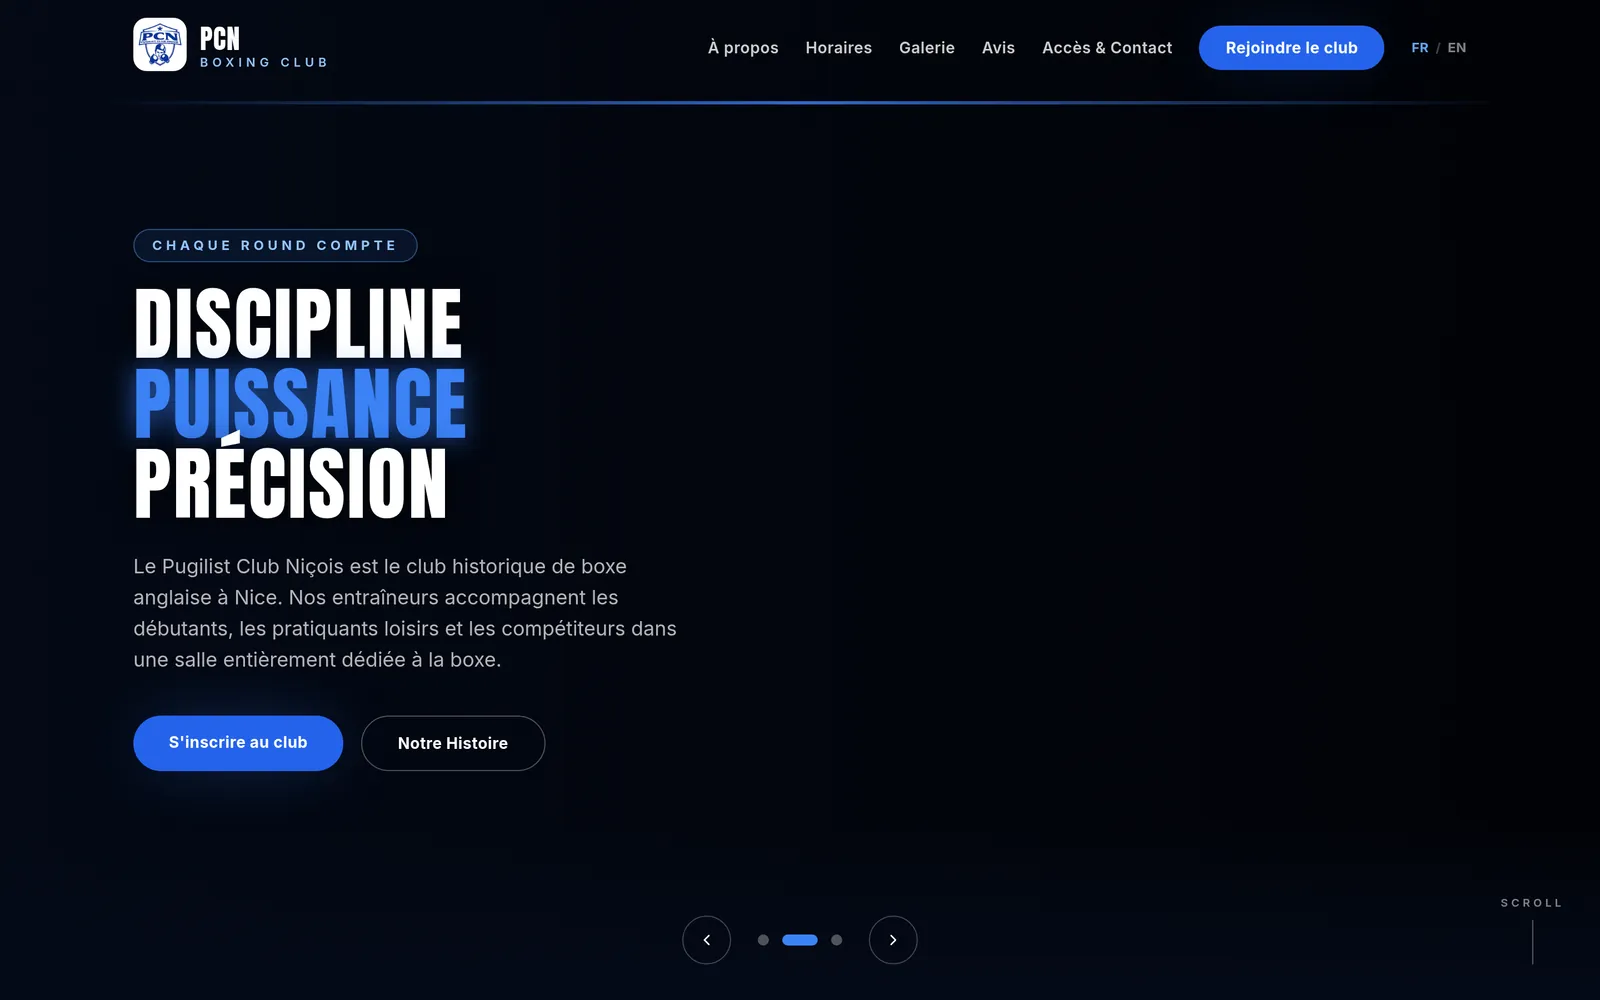
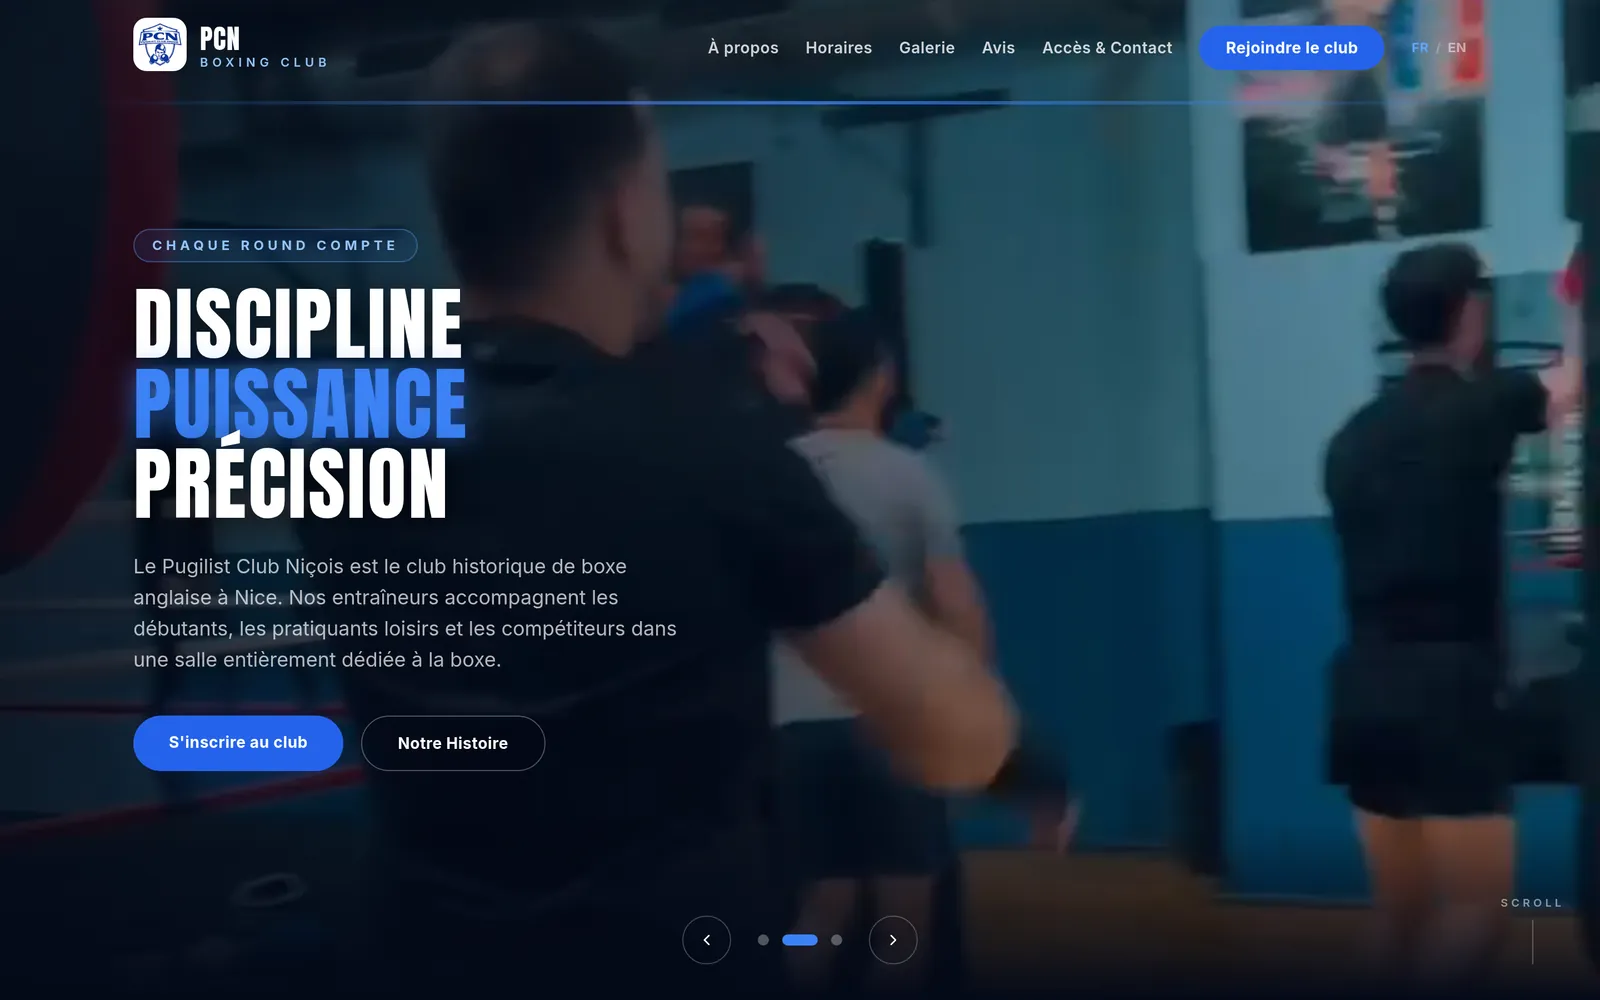
Lead each project with its title on mobile, and point PCN at its new domain
On narrow screens the screenshot came before the project name, so it read as
part of the project above it. Each card now orders title, screenshot, details
on mobile while keeping the alternating two-column layout on desktop - done
with display:contents on the text wrapper so the grid can order all three
blocks without duplicating markup. Separator between projects is now a gold
hairline with more breathing room.

pcnboxe.com now redirects to pugilistclubnicois.fr, so the live link and the
browser-frame URL follow the club's current domain. Re-captured the
screenshots from it: the new shot is far brighter and the gym is actually
legible, where the old one was almost entirely dark.

diff --git a/resources/views/components/fight-card.blade.php b/resources/views/components/fight-card.blade.php
@@ -17,11 +17,99 @@
     $flip = $index % 2 === 1;
 @endphp
 
-<article class="reveal border-t border-white/8 py-14 first:border-t-0 lg:py-20">
-    <div class="grid gap-10 lg:grid-cols-2 lg:items-center lg:gap-14">
+{{-- One project.
 
-        {{-- Screenshots ---------------------------------------------------- --}}
-        <div class="relative {{ $flip ? 'lg:order-2' : '' }}">
+     On mobile the order is title, then screenshot, then details, so a
+     screenshot is never mistaken for part of the project above it. On desktop
+     the title and details share one column beside the screenshot. The wrapper
+     is `display: contents` on mobile so its children can be ordered by the
+     parent grid, and becomes a normal column at lg. --}}
+<article class="reveal border-t border-[var(--color-gold)]/20 pt-12 pb-14 first:border-t-0 first:pt-0 lg:border-white/10 lg:py-20">
+    <div class="grid gap-6 lg:grid-cols-2 lg:items-center lg:gap-14">
+
+        <div class="contents lg:block {{ $flip ? 'lg:order-1' : 'lg:order-2' }}">
+
+            {{-- Title block: first thing read on mobile --}}
+            <header class="order-1">
+                <div class="flex flex-wrap items-center gap-2">
+                    <p class="eyebrow">{{ $billing }}</p>
+                    <span class="text-[var(--color-bone-dim)]/40">/</span>
+                    <p class="eyebrow eyebrow-dim">{{ $project['year'] }}</p>
+                </div>
+
+                <h3 class="display mt-3 text-[clamp(2rem,7vw,3.25rem)]">
+                    {{ $project['title'] }}
+                </h3>
+
+                <p class="mt-2 text-base text-[var(--color-bone)]/80">{{ __($project['subtitle']) }}</p>
+
+                <div class="mt-4 flex flex-wrap gap-2">
+                    <span class="badge {{ $kindBadge[0] }}">{{ $kindBadge[1] }}</span>
+                    @if ($project['status'] === 'live')
+                        <span class="badge badge-live">{{ __('Live') }}</span>
+                    @endif
+                    @if (! empty($project['repo_private']))
+                        <span class="badge badge-learning">{{ __('Private repo') }}</span>
+                    @endif
+                </div>
+
+                @if ($project['client'])
+                    <p class="mt-4 text-sm text-[var(--color-bone-dim)]">
+                        <span class="text-[var(--color-gold)]">{{ __('Client') }}:</span> {{ $project['client'] }}
+                    </p>
+                @endif
+            </header>
+
+            {{-- Details: below the screenshot on mobile --}}
+            <div class="order-3 mt-2 lg:mt-6">
+                <p class="max-w-xl leading-relaxed text-[var(--color-bone-dim)]">
+                    {{ __($project['summary']) }}
+                </p>
+
+                <div class="tape mt-7 grid-cols-3">
+                    @foreach ($project['metrics'] as $metric)
+                        <div class="tape-cell">
+                            <p class="tape-value text-[1.15rem] sm:text-[1.4rem]">{{ $metric['value'] }}</p>
+                            <p class="tape-label">{{ __($metric['label']) }}</p>
+                        </div>
+                    @endforeach
+                </div>
+
+                <div class="mt-6 flex flex-wrap gap-1.5">
+                    @foreach ($project['stack'] as $tech)
+                        <span class="tag">{{ $tech }}</span>
+                    @endforeach
+                </div>
+
+                <div class="mt-7 flex flex-wrap gap-3">
+                    <a href="{{ route('work.show', $project['slug']) }}" class="btn btn-gold">
+                        {{ __('Read the case study') }}
+                    </a>
+
+                    @if ($project['live_url'])
+                        <a href="{{ $project['live_url'] }}" target="_blank" rel="noopener noreferrer" class="btn btn-ghost">
+                            {{ __('Visit site') }}
+                            <x-lucide-arrow-up-right class="h-3.5 w-3.5" />
+                        </a>
+                    @endif
+
+                    @if ($project['github_url'])
+                        <a href="{{ $project['github_url'] }}" target="_blank" rel="noopener noreferrer" class="btn btn-ghost">
+                            {{ __('Code') }}
+                        </a>
+                    @endif
+                </div>
+
+                @if (! empty($project['cold_start']))
+                    <p class="mt-4 text-xs text-[var(--color-bone-dim)]/75">
+                        {{ __('Hosted on a free tier that sleeps - the first request can take a few seconds to wake.') }}
+                    </p>
+                @endif
+            </div>
+        </div>
+
+        {{-- Screenshots --}}
+        <div class="relative order-2 {{ $flip ? 'lg:order-2' : 'lg:order-1' }}">
             <div class="browser">
                 <div class="browser-bar">
                     <span class="browser-dot bg-[#ff5f57]"></span>
@@ -49,82 +137,6 @@
                     class="block h-52 w-full object-cover object-top lg:h-64"
                 >
             </div>
-        </div>
-
-        {{-- Billing -------------------------------------------------------- --}}
-        <div class="{{ $flip ? 'lg:order-1' : '' }}">
-            <div class="flex flex-wrap items-center gap-2">
-                <p class="eyebrow">{{ $billing }}</p>
-                <span class="text-[var(--color-bone-dim)]/40">/</span>
-                <p class="eyebrow eyebrow-dim">{{ $project['year'] }}</p>
-            </div>
-
-            <h3 class="display mt-3 text-[clamp(2rem,5vw,3.25rem)]">
-                {{ $project['title'] }}
-            </h3>
-
-            <p class="mt-2 text-base text-[var(--color-bone)]/80">{{ __($project['subtitle']) }}</p>
-
-            <div class="mt-4 flex flex-wrap gap-2">
-                <span class="badge {{ $kindBadge[0] }}">{{ $kindBadge[1] }}</span>
-                @if ($project['status'] === 'live')
-                    <span class="badge badge-live">{{ __('Live') }}</span>
-                @endif
-                @if (! empty($project['repo_private']))
-                    <span class="badge badge-learning">{{ __('Private repo') }}</span>
-                @endif
-            </div>
-
-            @if ($project['client'])
-                <p class="mt-4 text-sm text-[var(--color-bone-dim)]">
-                    <span class="text-[var(--color-gold)]">{{ __('Client') }}:</span> {{ $project['client'] }}
-                </p>
-            @endif
-
-            <p class="mt-5 max-w-xl leading-relaxed text-[var(--color-bone-dim)]">
-                {{ __($project['summary']) }}
-            </p>
-
-            {{-- Per-project tale of the tape --}}
-            <div class="tape mt-7 grid-cols-3">
-                @foreach ($project['metrics'] as $metric)
-                    <div class="tape-cell">
-                        <p class="tape-value text-[1.15rem] sm:text-[1.4rem]">{{ $metric['value'] }}</p>
-                        <p class="tape-label">{{ __($metric['label']) }}</p>
-                    </div>
-                @endforeach
-            </div>
-
-            <div class="mt-6 flex flex-wrap gap-1.5">
-                @foreach ($project['stack'] as $tech)
-                    <span class="tag">{{ $tech }}</span>
-                @endforeach
-            </div>
-
-            <div class="mt-7 flex flex-wrap gap-3">
-                <a href="{{ route('work.show', $project['slug']) }}" class="btn btn-gold">
-                    {{ __('Read the case study') }}
-                </a>
-
-                @if ($project['live_url'])
-                    <a href="{{ $project['live_url'] }}" target="_blank" rel="noopener noreferrer" class="btn btn-ghost">
-                        {{ __('Visit site') }}
-                        <x-lucide-arrow-up-right class="h-3.5 w-3.5" />
-                    </a>
-                @endif
-
-                @if ($project['github_url'])
-                    <a href="{{ $project['github_url'] }}" target="_blank" rel="noopener noreferrer" class="btn btn-ghost">
-                        {{ __('Code') }}
-                    </a>
-                @endif
-            </div>
-
-            @if (! empty($project['cold_start']))
-                <p class="mt-4 text-xs text-[var(--color-bone-dim)]/75">
-                    {{ __('Hosted on a free tier that sleeps - the first request can take a few seconds to wake.') }}
-                </p>
-            @endif
         </div>
     </div>
 </article>

diff --git a/config/portfolio.php b/config/portfolio.php
@@ -181,7 +181,7 @@ return [
             'stack' => ['Laravel 13', 'PHP 8.4', 'Alpine.js', 'Tailwind CSS', 'Cloudflare Workers', 'Resend', 'Docker', 'Coolify'],
             'tags' => ['Laravel', 'Bilingual', 'GDPR', 'Docker'],
 
-            'live_url' => 'https://pcnboxe.com',
+            'live_url' => 'https://pugilistclubnicois.fr',
             'github_url' => 'https://github.com/Lukatsurtsumia/PCN_club',
             'repo_private' => false,
 
